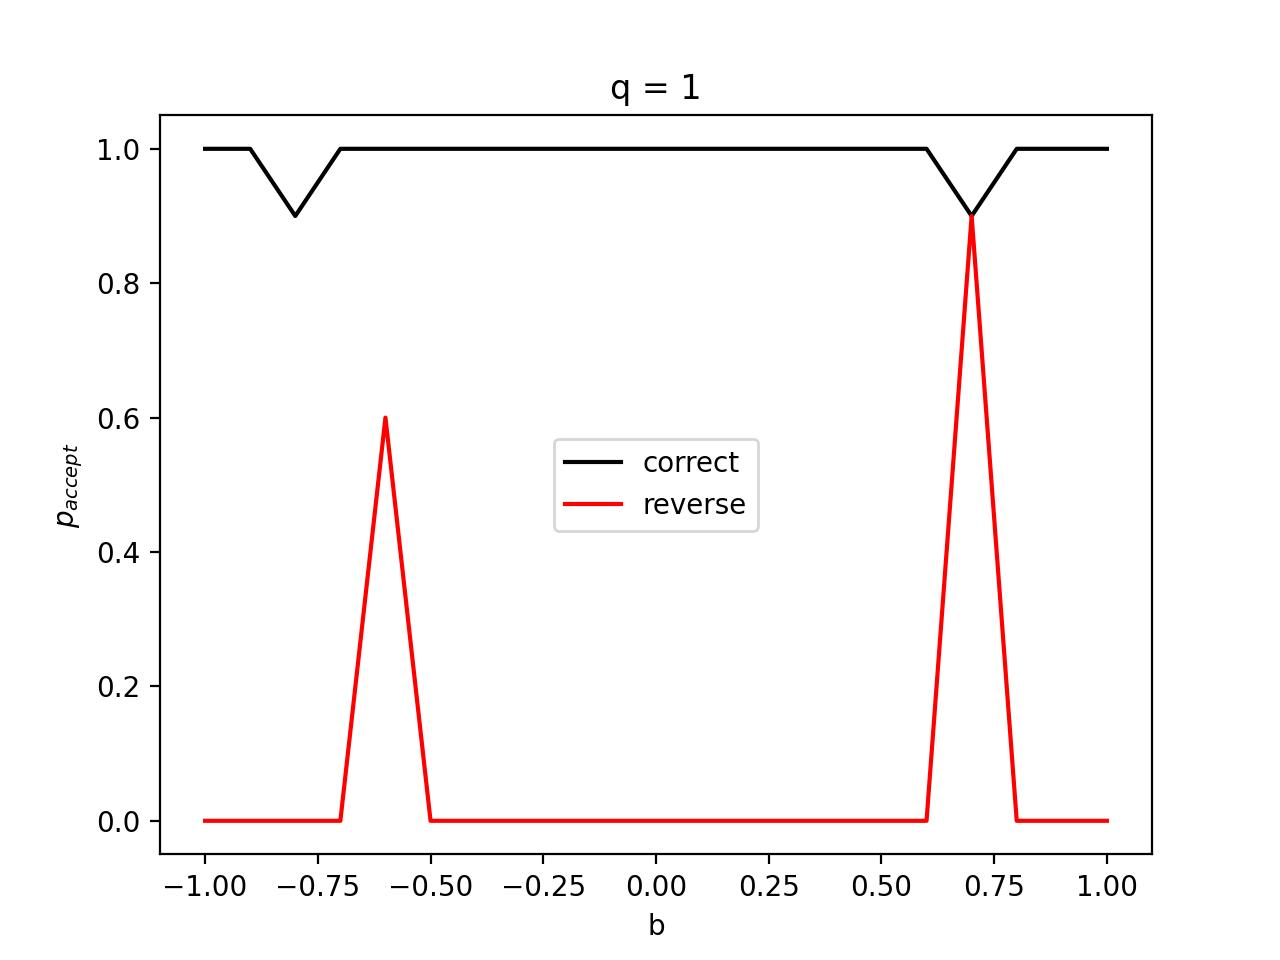
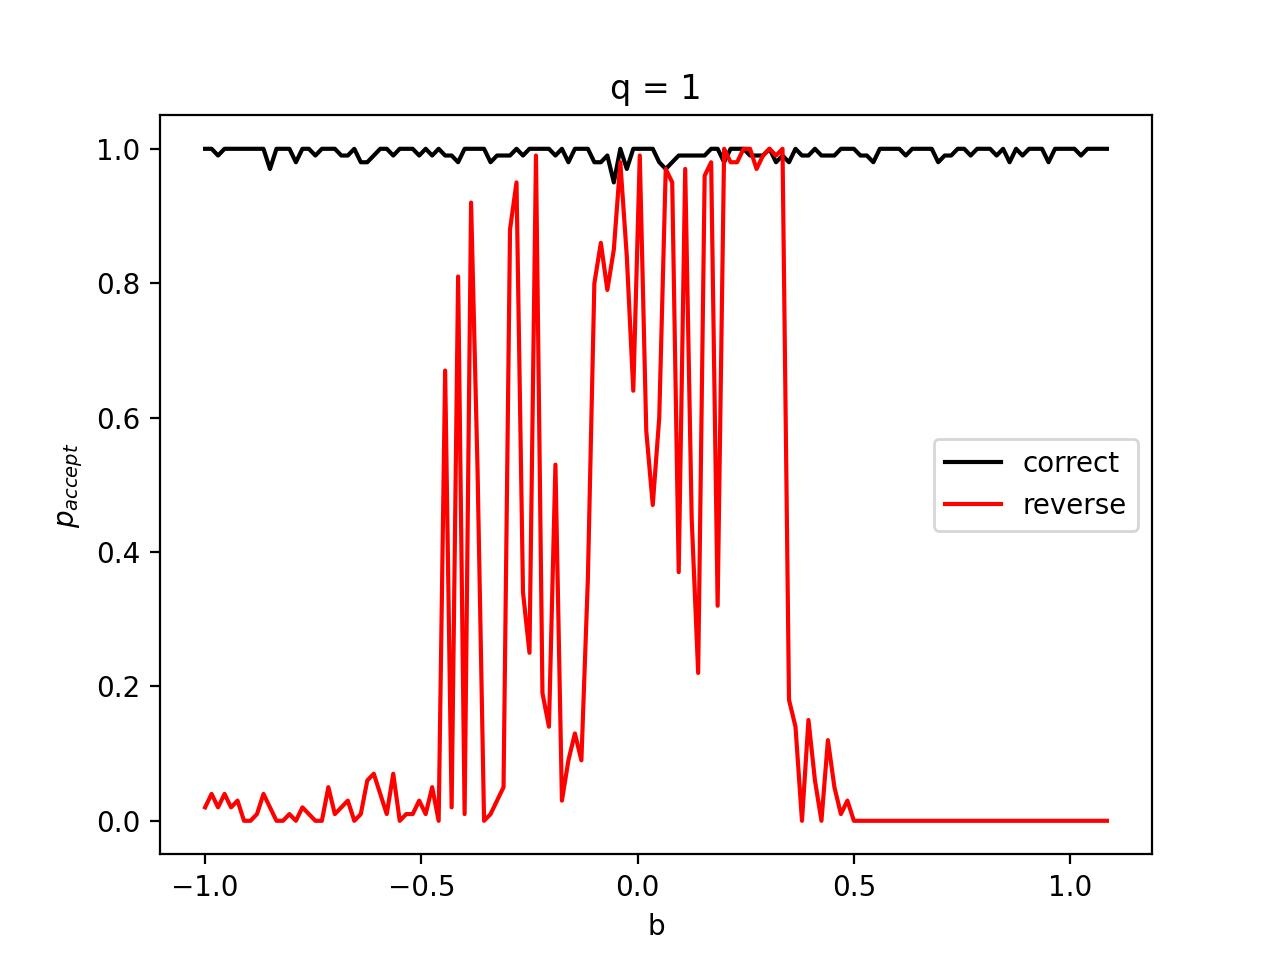
added KCI for ANM algorithm, having reproduced the simulation test in paper

diff --git a/ANM/anm_repetition_multithreading.py b/ANM/anm_repetition_multithreading.py
@@ -170,32 +170,32 @@ def multi_repetition(times, repetition_num, b, q, is_visualized, forward, backwa
 repetition_num = 100
 is_visualized = False
 
-# The first panel
-b = 0
-nums = np.arange(0.5, 2.001, 0.01)  # q
-proportion = []
-with ThreadPoolExecutor(max_workers=30) as executor:
-    start = time.time()
-    for q in nums:
-        q = round(q, 3)
-        times = 1
-        forward = 0
-        backward = 0
-        future = executor.submit(multi_repetition, times, repetition_num, b, q, is_visualized, forward, backward)
-    with tqdm(total=None, desc='Progress', unit='iteration') as pbar:
-        while not future.done():
-            pbar.update(1)
-            time.sleep(0.1)
-plt.figure()
-proportion.sort(key=lambda x: x[0])
-plt.plot(nums, np.array(proportion)[:, 1:2], 'k', label='correct')
-plt.plot(nums, np.array(proportion)[:, 2:], 'r', label='reverse')
-plt.xlabel('q')
-plt.ylabel('$p_{accept}$')
-plt.title(f'b = 0')
-plt.legend()
-plt.savefig(f'b0_q05-20_{repetition_num}times_KCI.jpg', dpi=200)
-plt.show()
+# # The first panel
+# b = 0
+# nums = np.arange(0.5, 2.001, 0.01)  # q
+# proportion = []
+# with ThreadPoolExecutor(max_workers=30) as executor:
+#     start = time.time()
+#     for q in nums:
+#         q = round(q, 3)
+#         times = 1
+#         forward = 0
+#         backward = 0
+#         future = executor.submit(multi_repetition, times, repetition_num, b, q, is_visualized, forward, backward)
+#     with tqdm(total=None, desc='Progress', unit='iteration') as pbar:
+#         while not future.done():
+#             pbar.update(1)
+#             time.sleep(0.1)
+# plt.figure()
+# proportion.sort(key=lambda x: x[0])
+# plt.plot(nums, np.array(proportion)[:, 1:2], 'k', label='correct')
+# plt.plot(nums, np.array(proportion)[:, 2:], 'r', label='reverse')
+# plt.xlabel('q')
+# plt.ylabel('$p_{accept}$')
+# plt.title(f'b = 0')
+# plt.legend()
+# plt.savefig(f'b0_q05-20_{repetition_num}times_KCI.jpg', dpi=200)
+# plt.show()
 
 # The second panel
 q = 1
@@ -222,6 +222,6 @@ plt.ylabel('$p_{accept}$')
 plt.title(f'q = 1')
 plt.legend()
 # plt.show()
-plt.savefig(f'q1_bn1-1_{repetition_num}times_KCI.jpg', dpi=200)
+plt.savefig(f'q1_bn1-1_{repetition_num}times_KCI_0.1.jpg', dpi=200)
 plt.show()
 
